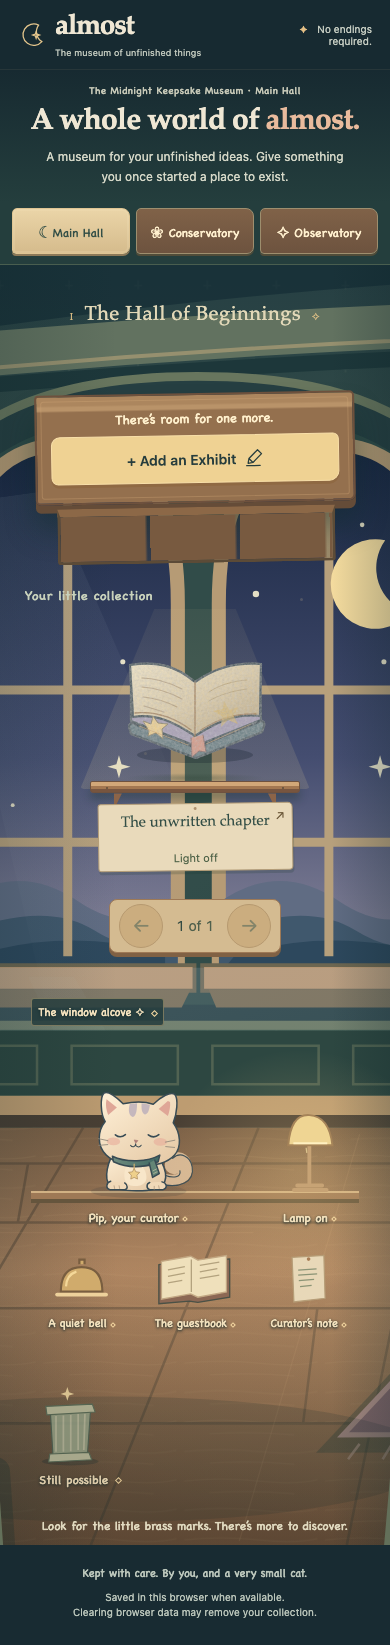
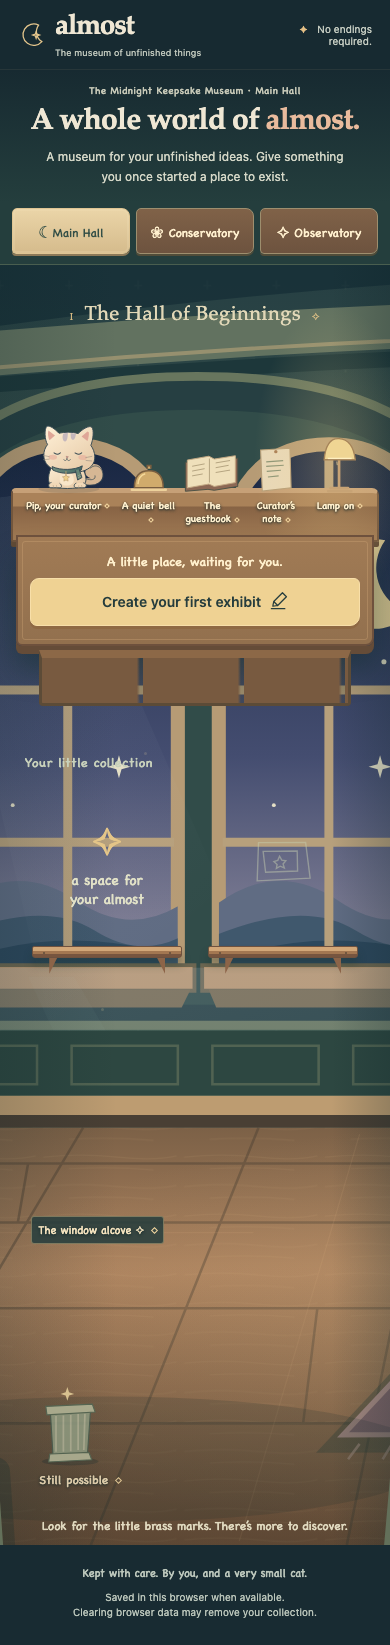
Place the curator and discoveries on one table

Changed region(s): [[0.0308, 0.217, 0.9846, 0.6201], [0.0615, 0.6511, 0.9231, 0.8061]]

diff --git a/devpost/app-map.html b/devpost/app-map.html
@@ -12,7 +12,7 @@
 <details open><summary>The room, Pip and the keepsakes</summary><ul><li><code>src/components/MuseumAtmosphere.tsx</code> — original architectural SVG: high windows, side corridor, perspective floor and near pillars; decorative only.</li><li><code>src/components/MuseumScene.tsx</code> and <code>src/styles/hall.css</code> — continuous hall composition, foreground desk, shelf/plinth positions and responsive behavior. <code>museum.css</code> retains the creation ritual surfaces.</li><li><code>src/components/PipCurator.tsx</code> and <code>src/styles/pip.css</code> — character silhouette and contextual poses; <code>src/hooks/usePipBehavior.ts</code> controls transient event-driven speech and settling, with no storage logic.</li><li><code>src/components/MuseumEnvironment.tsx</code> — window, lamp, silent bell, guestbook, curator note, empty pedestal and Pip stories. Local presentation state only; no storage access.</li><li><code>src/artwork/artifactDefinitions.tsx</code>, <code>src/components/Artifact.tsx</code> and <code>src/styles/artifacts.css</code> — five coherent miniatures and their local motions.</li></ul></details>
 <details><summary>The collection, ritual and keepsake card</summary><ul><li><code>ExhibitGallery.tsx</code> — stable ordering, six desktop positions, mobile scroll and explicit browsing controls.</li><li><code>CreationPanel.tsx</code> — notebook, editable name tag and object tray.</li><li><code>PlacementPreview.tsx</code> — fourth, explicitly unsaved visual stage. Back and Escape keep the stable draft; only final Place saves.</li><li><code>ExhibitPlaque.tsx</code> — exact words, box illustration, explicit light/replay controls and recovery status.</li><li><code>PanelDialog.tsx</code> — accessible naming, Escape and focus return. Keep these while changing the illustration.</li></ul></details>
 <details><summary>Text limits and persistence safety</summary><ul><li><code>src/model/validation.ts</code> — 100/1,000 Unicode code-point limits; validation does not truncate input.</li><li><code>src/model/naming.ts</code> — deterministic suggestion from exact text or a neutral fallback.</li><li><code>src/model/types.ts</code> — versioned records and session draft. A schema change needs deliberate planning; this redesign made none.</li><li><code>tests/storage.test.ts</code>, <code>tests/model.test.ts</code> and <code>tests/e2e/museum.spec.ts</code> — preservation, failure and visible-flow regression evidence.</li></ul></details></section>
-<section><h2>Two rooms further inside</h2><p><code>RoomNavigation.tsx</code> names the three destinations. <code>MuseumScene.tsx</code> owns a temporary room ID and keeps the Main Hall gallery mounted while hidden, so its desktop page and mobile item survive a round trip.</p><p><code>StoryRoom.tsx</code> owns rain, paper petals, seed drawer, telescope, constellation wheel and clockwork comet. <code>StoryRoomAtmosphere.tsx</code> draws the sage glasshouse and plum observatory, with <code>rooms.css</code> handling responsive composition. These optional features never access exhibit/draft storage; leaving resets their UI state. A creation invitation returns to the existing Hall callback and keeps a recovered draft’s stable ID.</p><p class="subtle">The curator stories are explicitly fictional museum lore. They do not interpret visitor input. See <a href="story-rooms-report.md">the room review and screenshots</a>.</p></section><section><h2>A notebook of its own</h2><p><code>MemoryJournal.tsx</code> stays mounted beside the room destination in <code>MuseumScene.tsx</code>. Closing the book or leaving the glasshouse keeps the editor’s exact words in memory. Its native journal dialog reuses <code>PanelDialog.tsx</code> for focus, Escape and restoration. <code>journal.css</code> supplies cream paper, a pressed-fern cover and a mobile page index.</p><p><code>src/model/journal.ts</code> defines journal entries and open drafts independently of exhibits. <code>journalStorage.ts</code> uses <code>almost:journal:entry:&lt;id&gt;</code> and <code>almost:journal:draft</code>. Same-ID retries, raw baselines and read-back checks protect saved pages. First save records the original time and time zone; editing changes only the separate update timestamp. Corruption blocks writes without erasing stored words.</p><p class="subtle">See <a href="journal-report.md">journal verification and screenshots</a>. Screenshot memories and test records are synthetic, never personal visitor content.</p></section><section><h2>One connected museum</h2><p><code>refinements.css</code> supplies the shared interaction marks, focus rings, room-arrival motion and responsive spacing. <code>MuseumScene.tsx</code> connects the focused room heading to its short atmospheric introduction and keeps creation/collection ahead of optional discoveries in reading order. Showing the mounted Hall again restarts its visual arrival without recreating the collection; reduced motion removes it without delaying a control or storage write.</p><p>The journal says “A place for memories that don’t need a pedestal.” Its persistence and dated entry model remain independent and unchanged. See <a href="refinement-report.md">refinement verification and screenshots</a>.</p></section><section><h2>A practice to reuse</h2><p><strong>Make a visual promise testable before you redesign it.</strong> “The reveal never turns on the lasting light” became an explicit PRD criterion, separate App event paths, and a browser test that creates, replays, toggles and reloads. The redesign adds architectural depth, optional room discoveries and an unsaved placement preview while those checks still prove that the light changes only by an explicit action.</p><p>The companion test <code>a failed save skips the placement ceremony and never celebrates durable success</code> connects emotional honesty to observable behavior. Another test compares twelve stored records byte for byte across browsing and reload. Reuse that approach: identify the promise that must survive a redesign, give it a visible criterion, and protect it with an executed regression test.</p><p class="subtle">Executed evidence: 57 unit tests and 90 desktop/mobile browser tests passed, alongside typecheck, lint and production build. See <a href="refinement-report.md">the refinement report</a> for limits and the exact checks. This is evidence about the app, not a statement of learner mastery.</p></section>
+<section><h2>Two rooms further inside</h2><p><code>RoomNavigation.tsx</code> names the three destinations. <code>MuseumScene.tsx</code> owns a temporary room ID and keeps the Main Hall gallery mounted while hidden, so its desktop page and mobile item survive a round trip.</p><p><code>StoryRoom.tsx</code> owns rain, paper petals, seed drawer, telescope, constellation wheel and clockwork comet. <code>StoryRoomAtmosphere.tsx</code> draws the sage glasshouse and plum observatory, with <code>rooms.css</code> handling responsive composition. These optional features never access exhibit/draft storage; leaving resets their UI state. A creation invitation returns to the existing Hall callback and keeps a recovered draft’s stable ID.</p><p class="subtle">The curator stories are explicitly fictional museum lore. They do not interpret visitor input. See <a href="story-rooms-report.md">the room review and screenshots</a>.</p></section><section><h2>A notebook of its own</h2><p><code>MemoryJournal.tsx</code> stays mounted beside the room destination in <code>MuseumScene.tsx</code>. Closing the book or leaving the glasshouse keeps the editor’s exact words in memory. Its native journal dialog reuses <code>PanelDialog.tsx</code> for focus, Escape and restoration. <code>journal.css</code> supplies cream paper, a pressed-fern cover and a mobile page index.</p><p><code>src/model/journal.ts</code> defines journal entries and open drafts independently of exhibits. <code>journalStorage.ts</code> uses <code>almost:journal:entry:&lt;id&gt;</code> and <code>almost:journal:draft</code>. Same-ID retries, raw baselines and read-back checks protect saved pages. First save records the original time and time zone; editing changes only the separate update timestamp. Corruption blocks writes without erasing stored words.</p><p class="subtle">See <a href="journal-report.md">journal verification and screenshots</a>. Screenshot memories and test records are synthetic, never personal visitor content.</p></section><section><h2>One connected museum</h2><p><code>alignment.css</code> and the <code>MuseumEnvironment.tsx</code> desk slot put Pip, the bell, guestbook, curator note and lamp on one tabletop. The existing creation invitation becomes the table’s front panel; MuseumScene still owns its callbacks and placement state. Layout-only changes do not move storage responsibilities into the environment.</p><p><code>refinements.css</code> supplies the shared interaction marks, focus rings, room-arrival motion and responsive spacing. <code>MuseumScene.tsx</code> connects the focused room heading to its short atmospheric introduction and keeps creation/collection ahead of optional discoveries in reading order. Showing the mounted Hall again restarts its visual arrival without recreating the collection; reduced motion removes it without delaying a control or storage write.</p><p>The journal says “A place for memories that don’t need a pedestal.” Its persistence and dated entry model remain independent and unchanged. See <a href="refinement-report.md">refinement verification and screenshots</a>.</p></section><section><h2>A practice to reuse</h2><p><strong>Make a visual promise testable before you redesign it.</strong> “The reveal never turns on the lasting light” became an explicit PRD criterion, separate App event paths, and a browser test that creates, replays, toggles and reloads. The redesign adds architectural depth, optional room discoveries and an unsaved placement preview while those checks still prove that the light changes only by an explicit action.</p><p>The companion test <code>a failed save skips the placement ceremony and never celebrates durable success</code> connects emotional honesty to observable behavior. Another test compares twelve stored records byte for byte across browsing and reload. Reuse that approach: identify the promise that must survive a redesign, give it a visible criterion, and protect it with an executed regression test.</p><p class="subtle">Executed evidence: 57 unit tests and 90 desktop/mobile browser tests passed, alongside typecheck, lint and production build. See <a href="refinement-report.md">the refinement report</a> for limits and the exact checks. This is evidence about the app, not a statement of learner mastery.</p></section>
 <section><h2>Open the museum again</h2><pre><code>npm ci
 npm run dev -- --host 127.0.0.1 --port 5173 --strictPort</code></pre><p>Open <a href="http://127.0.0.1:5173/">http://127.0.0.1:5173/</a>. Reopen this map as <code>devpost/app-map.html</code>; it works offline with scripts disabled. No runtime AI, backend, login, remote font or remote artwork is required.</p><p>Hosting is prepared for Vercel Hobby if eligible, with Render Free Static Site as backup. Nothing was pushed or deployed. Browser storage remains local to the site address; memory-only content may disappear after reload.</p></section>
 <footer>ALMOST · Original local illustration, one small room, and one sleepy keeper. Reference map only; final review and shipping are tracked in <a href="checklist.md">checklist.md</a>.</footer>

diff --git a/src/styles/alignment.css b/src/styles/alignment.css
@@ -1,121 +1,132 @@
-/* A single arrangement keeps the curator, lamp and desk objects in real rows.
-   Labels participate in layout instead of hanging outside their hit targets. */
-.curator-arrangement {
-  --object-row:109px;
-  --curator-gap:24px;
+/* Objects stand on the same tabletop; the creation invitation is its front panel. */
+.curator-table {
   position:absolute;
-  left:7%;
-  bottom:calc(9% + 145px);
-  width:27%;
+  left:6%;
+  bottom:10%;
+  width:31%;
+  z-index:4;
   display:grid;
-  grid-template-columns:repeat(3,minmax(0,1fr));
+}
+.curator-arrangement {
+  --table-art-height:130px;
+  --table-label-height:42px;
+  position:relative;
+  width:100%;
+  display:grid;
+  grid-template-columns:1.7fr repeat(4,minmax(0,1fr));
+  gap:8px;
   align-items:end;
-  gap:24px 16px;
-  z-index:3;
+  padding-inline:10px;
+  isolation:isolate;
 }
 .curator-arrangement::before {
   content:'';
   position:absolute;
-  left:0;
-  right:0;
-  bottom:calc(var(--object-row) + var(--curator-gap) + 32px);
-  height:8px;
-  border-top:2px solid #d1b184;
-  background:#9e7956;
-  box-shadow:0 4px #65553d;
+  top:calc(var(--table-art-height) - 3px);
+  left:-5px;
+  right:-5px;
+  bottom:-7px;
+  border:2px solid #72563d;
+  border-top:5px solid #c6a077;
+  border-radius:5px 7px 2px 2px;
+  background:linear-gradient(#aa8259 0 13px,#876344 14px,#a17b55);
+  box-shadow:0 5px #624b36;
   z-index:-1;
   pointer-events:none;
 }
-@media(min-width:960px) {
-  .window-discovery { top:12%; height:10%; }
-  .window-touch .object-label { top:0; bottom:auto; }
-}
-.museum-hall .curator-arrangement .keeper-corner {
+.museum-hall .curator-table .writing-desk {
   position:relative;
   inset:auto;
   width:100%;
-  grid-column:1 / 3;
-  padding:0;
-}
-.curator-arrangement .pip-greeting { border-radius:20px; }
-.museum-hall .curator-arrangement .pip-curator { width:min(180px,100%); margin:0 auto; }
-.curator-arrangement .pip-greeting > .object-label {
-  position:static;
-  transform:none;
-  width:100%;
   max-width:none;
-  margin:2px 0 0;
-  padding:0;
-  min-height:24px;
-  text-align:center;
-  font-size:12px;
+  min-height:108px;
+  margin:0;
+  padding:16px 18px 20px;
+  transform:none;
+  border-radius:0 0 8px 6px;
+  background:linear-gradient(#a17b55,#92704e);
 }
+.museum-hall .curator-arrangement .keeper-corner,
 .museum-hall .curator-arrangement .desk-lamp {
   position:relative;
   inset:auto;
   width:100%;
-  grid-column:3;
+  padding:0;
 }
-.curator-arrangement .lamp-touch { display:flex; flex-direction:column; align-items:center; }
-.curator-arrangement .lamp-touch svg { width:min(64px,85%); margin:0 auto; }
-.curator-arrangement .lamp-touch .object-label { margin:8px 0 0; min-height:24px; font-size:12px; }
-.museum-hall .curator-arrangement .desk-discoveries {
-  position:relative;
-  inset:auto;
-  width:100%;
-  grid-column:1 / -1;
-  display:grid;
-  grid-template-columns:repeat(3,minmax(0,1fr));
-  align-items:start;
-  gap:16px;
-}
+.museum-hall .curator-arrangement .desk-discoveries { display:contents; }
+.museum-hall .curator-arrangement .pip-greeting,
+.museum-hall .curator-arrangement .lamp-touch,
 .museum-hall .curator-arrangement .desk-discoveries > button {
-  width:100%;
-  margin:0;
   display:grid;
-  grid-template-rows:60px auto;
+  grid-template-rows:var(--table-art-height) var(--table-label-height);
+  gap:0;
   align-items:end;
   justify-items:center;
-  gap:9px;
+  width:100%;
+  min-width:44px;
+  margin:0;
+  padding:0;
+  border-radius:12px 12px 3px 3px;
 }
-.museum-hall .curator-arrangement .desk-discoveries svg { height:60px; max-height:none; width:100%; }
-.museum-hall .curator-arrangement .desk-discoveries .object-label {
+.museum-hall .curator-arrangement .pip-curator { width:min(150px,100%); margin:0 auto; transform:translateY(12px); }
+.museum-hall .curator-arrangement .pip-note { transform:translateY(-12px); width:165px; left:0; }
+.museum-hall .curator-arrangement .lamp-touch svg { width:58px; max-width:100%; height:auto; margin:0 0 -7px; }
+.museum-hall .curator-arrangement .desk-discoveries svg { width:100%; height:58px; max-height:none; margin-bottom:-3px; }
+.museum-hall .curator-arrangement .bell-touch svg { height:48px; margin-bottom:-6px; }
+.museum-hall .curator-arrangement .curator-note svg { height:64px; }
+.museum-hall .curator-arrangement .object-label {
+  position:static;
+  transform:none;
+  align-self:stretch;
+  display:block;
   width:100%;
   max-width:none;
+  min-height:0;
   margin:0;
-  min-height:40px;
-  font-size:12px;
-  line-height:1.6;
+  padding:8px 0 0;
+  font-size:11px;
+  line-height:1.35;
   white-space:normal;
   text-align:center;
+  color:#fff0ce;
+}
+.curator-arrangement .object-label::after { margin-left:4px; width:4px; height:4px; flex:none; }
+@media(min-width:960px) {
+  .window-discovery { top:12%; height:10%; }
+  .window-touch .object-label { top:0; bottom:auto; }
 }
 @media(min-width:1600px) {
   .museum-hall { height:clamp(780px,calc(100svh - 244px),1000px); min-height:780px; }
-  .museum-hall .curator-arrangement .pip-curator { width:200px; }
+  .curator-arrangement { --table-art-height:155px; }
+  .museum-hall .curator-arrangement .pip-curator { width:min(180px,100%); }
+  .museum-hall .curator-arrangement .lamp-touch svg { width:68px; }
+  .museum-hall .curator-arrangement .desk-discoveries svg { height:68px; }
+  .museum-hall .curator-arrangement .bell-touch svg { height:54px; }
 }
 @media(min-width:960px) and (max-width:1199px) {
-  .curator-arrangement { --curator-gap:20px; width:29%; left:6%; gap:20px 12px; }
-  .museum-hall .curator-arrangement .desk-discoveries { gap:12px; }
-  .museum-hall .curator-arrangement .desk-discoveries .object-label { font-size:11px; }
+  .curator-table { left:4%; width:33.5%; }
+  .curator-arrangement { grid-template-columns:1.6fr repeat(4,minmax(0,1fr)); padding-inline:6px; gap:6px; }
 }
 @media(min-width:600px) and (max-width:959px) {
   .museum-hall { height:1240px; min-height:1240px; }
-  .curator-arrangement { left:14%; width:62%; bottom:150px; }
-  .museum-hall .curator-arrangement .pip-curator { width:165px; }
+  .curator-table { top:9%; bottom:auto; left:16%; width:68%; }
+  .museum-hall .collection-stage,.museum-hall .awaiting-beginnings { top:38%; }
+  .window-discovery { top:75%; height:44px; width:30%; left:8%; }
   .empty-pedestal-touch { top:auto; bottom:55px; right:8%; width:9%; }
 }
 @media(max-width:599px) {
   .museum-hall { height:1280px; min-height:1280px; }
-  .museum-hall .collection-stage,.museum-hall .awaiting-beginnings { top:25%; }
-  .curator-arrangement { --object-row:97px; --curator-gap:22px; left:8%; width:84%; bottom:195px; gap:22px 16px; }
-  .museum-hall .curator-arrangement .pip-curator { width:145px; }
-  .museum-hall .curator-arrangement .keeper-corner .pip-note { left:0; width:160px; }
-  .museum-hall .curator-arrangement .desk-discoveries { gap:12px; }
-  .museum-hall .curator-arrangement .desk-discoveries > button { grid-template-rows:52px auto; }
-  .museum-hall .curator-arrangement .desk-discoveries svg { height:52px; }
-  .museum-hall .curator-arrangement .desk-discoveries .object-label { font-size:11px; min-height:36px; }
-  .curator-arrangement .object-label::after { margin-left:4px; width:4px; height:4px; }
-  .window-discovery { top:56%; height:44px; }
+  .curator-table { top:9%; bottom:auto; left:4%; width:92%; }
+  .curator-arrangement { --table-art-height:110px; --table-label-height:44px; grid-template-columns:1.6fr repeat(4,minmax(0,1fr)); gap:6px; padding-inline:6px; }
+  .museum-hall .curator-table .writing-desk { padding:15px 12px 18px; }
+  .museum-hall .curator-arrangement .pip-curator { transform:translateY(8px); }
+  .museum-hall .curator-arrangement .lamp-touch svg { width:45px; }
+  .museum-hall .curator-arrangement .desk-discoveries svg { height:42px; }
+  .museum-hall .curator-arrangement .bell-touch svg { height:36px; }
+  .museum-hall .curator-arrangement .curator-note svg { height:48px; }
+  .museum-hall .curator-arrangement .object-label { font-size:10px; }
+  .museum-hall .collection-stage,.museum-hall .awaiting-beginnings { top:38%; }
+  .window-discovery { top:73%; height:44px; }
   .empty-pedestal-touch { top:auto; bottom:57px; left:10%; width:16%; }
   .environment-whisper { bottom:65px; left:31%; width:61%; }
   .hall-invitation { bottom:12px; }

diff --git a/src/components/MuseumEnvironment.tsx b/src/components/MuseumEnvironment.tsx
@@ -1,4 +1,4 @@
-import { useEffect, useRef, useState } from 'react';
+import { useEffect, useRef, useState, type ReactNode } from 'react';
 import { PanelDialog } from './PanelDialog';
 import { PipCurator, type PipMood } from './PipCurator';
 
@@ -11,7 +11,7 @@ const stories: Record<FoundStory, { title: string; text: string; caption: string
 };
 
 /** Optional room discoveries. This component never reads or writes exhibit/draft storage. */
-export function MuseumEnvironment({ pipMood, pipSpeaking }: { pipMood: PipMood; pipSpeaking: boolean }) {
+export function MuseumEnvironment({ pipMood, pipSpeaking, desk }: { pipMood: PipMood; pipSpeaking: boolean; desk: ReactNode }) {
   const [lampOn, setLampOn] = useState(true);
   const [moment, setMoment] = useState<'window' | 'bell' | null>(null);
   const [story, setStory] = useState<FoundStory | null>(null);
@@ -27,8 +27,14 @@ export function MuseumEnvironment({ pipMood, pipSpeaking }: { pipMood: PipMood; 
       <span className="window-stars" aria-hidden="true"><i>✦</i><i>✧</i><i>✦</i><i>·</i></span>
       <button className="room-object window-touch" onClick={() => discover('window')} aria-label="Look through the twilight window"><span className="object-label">The window alcove</span></button>
     </div>
+    <div className="curator-table">
     <div className="curator-arrangement">
     <div className="keeper-corner"><button className="pip-greeting" aria-label="Ask Pip for a little thought" onClick={() => setStory('pip')}><PipCurator mood={pipMood} showNote={pipSpeaking}/><span className="object-label">Pip, your curator</span></button></div>
+    <div className="desk-discoveries">
+      <button className={`room-object bell-touch ${moment === 'bell' ? 'is-ringing' : ''}`} aria-label="Ring the museum bell" onClick={() => discover('bell')}><svg viewBox="0 0 80 70" aria-hidden="true"><path d="M37 15V9h7v6M12 52q0-33 28-33t28 33Z" fill="#d0ab6c" stroke="#795e40" strokeWidth="3"/><path d="M7 56h66" stroke="#edd19b" strokeWidth="5" strokeLinecap="round"/><path d="M19 45q1-16 14-20" fill="none" stroke="#f4d899" strokeWidth="3"/><g className="bell-ring-marks" fill="none" stroke="#f7d99e" strokeWidth="2"><path d="M5 29 0 23m75 6 5-6M4 40H0m76 0h4"/></g></svg><span className="object-label">A quiet bell</span></button>
+      <button className="room-object guestbook-touch" aria-label="Open the guestbook" onClick={() => setStory('guestbook')}><svg viewBox="0 0 120 80" aria-hidden="true"><path d="m5 18 49-7 12 2 48-4v59l-49 8-13-2L5 78Z" fill="#8c6854" stroke="#4a5146" strokeWidth="2"/><path d="m9 13 45-8 11 6 44-7v56l-44 8-11-5-45 8Z" fill="#efe0bb" stroke="#c2a783" strokeWidth="2"/><path d="M55 10v50m13-41 30-5m-30 15 27-5m-27 15 30-5M19 26l26-5m-26 15 26-5m-26 15 22-4" stroke="#b3a27e" fill="none" strokeWidth="2"/></svg><span className="object-label">The guestbook</span></button>
+      <button className="room-object curator-note" aria-label="Read the curator’s note" onClick={() => setStory('note')}><svg viewBox="0 0 70 85" aria-hidden="true"><path d="m8 7 52-3 2 70-51 6Z" fill="#e8d8b8" stroke="#b69d77" strokeWidth="2"/><circle cx="35" cy="10" r="3" fill="#a97d55"/><path d="m18 28 30-2m-30 10 31-2m-30 11 25-2m-23 12 19-2" stroke="#8b9476" strokeWidth="2"/></svg><span className="object-label">Curator’s note</span></button>
+    </div>
     <div className={`desk-lamp ${lampOn ? 'lamp-on' : ''}`}>
       <div className="desk-lamp-pool" aria-hidden="true"/>
       <button className="room-object lamp-touch" aria-label="Desk lamp" aria-pressed={lampOn} onClick={() => setLampOn(on => !on)}>
@@ -36,11 +42,8 @@ export function MuseumEnvironment({ pipMood, pipSpeaking }: { pipMood: PipMood; 
         <span className="object-label">Lamp {lampOn ? 'on' : 'off'}</span>
       </button>
     </div>
-    <div className="desk-discoveries">
-      <button className={`room-object bell-touch ${moment === 'bell' ? 'is-ringing' : ''}`} aria-label="Ring the museum bell" onClick={() => discover('bell')}><svg viewBox="0 0 80 70" aria-hidden="true"><path d="M37 15V9h7v6M12 52q0-33 28-33t28 33Z" fill="#d0ab6c" stroke="#795e40" strokeWidth="3"/><path d="M7 56h66" stroke="#edd19b" strokeWidth="5" strokeLinecap="round"/><path d="M19 45q1-16 14-20" fill="none" stroke="#f4d899" strokeWidth="3"/><g className="bell-ring-marks" fill="none" stroke="#f7d99e" strokeWidth="2"><path d="M5 29 0 23m75 6 5-6M4 40H0m76 0h4"/></g></svg><span className="object-label">A quiet bell</span></button>
-      <button className="room-object guestbook-touch" aria-label="Open the guestbook" onClick={() => setStory('guestbook')}><svg viewBox="0 0 120 80" aria-hidden="true"><path d="m5 18 49-7 12 2 48-4v59l-49 8-13-2L5 78Z" fill="#8c6854" stroke="#4a5146" strokeWidth="2"/><path d="m9 13 45-8 11 6 44-7v56l-44 8-11-5-45 8Z" fill="#efe0bb" stroke="#c2a783" strokeWidth="2"/><path d="M55 10v50m13-41 30-5m-30 15 27-5m-27 15 30-5M19 26l26-5m-26 15 26-5m-26 15 22-4" stroke="#b3a27e" fill="none" strokeWidth="2"/></svg><span className="object-label">The guestbook</span></button>
-      <button className="room-object curator-note" aria-label="Read the curator’s note" onClick={() => setStory('note')}><svg viewBox="0 0 70 85" aria-hidden="true"><path d="m8 7 52-3 2 70-51 6Z" fill="#e8d8b8" stroke="#b69d77" strokeWidth="2"/><circle cx="35" cy="10" r="3" fill="#a97d55"/><path d="m18 28 30-2m-30 10 31-2m-30 11 25-2m-23 12 19-2" stroke="#8b9476" strokeWidth="2"/></svg><span className="object-label">Curator’s note</span></button>
     </div>
+    {desk}
     </div>
     <button className="room-object empty-pedestal-touch" aria-label="Read the empty pedestal inscription" onClick={() => setStory('pedestal')}><svg viewBox="0 0 110 150" aria-hidden="true"><ellipse cx="55" cy="140" rx="50" ry="7" fill="#10282b" opacity=".3"/><path d="m20 52 71-4-6 85-60 2Z" fill="#8f9b81" stroke="#475d50" strokeWidth="2"/><path d="M30 60v63m13-64v64m13-65v64m13-66v64m12-64-2 64" stroke="#b2b59a" strokeWidth="3"/><path d="m12 43 82-4 5 14-85 5Zm7 84 69-3 5 13-76 4Z" fill="#b4b89a" stroke="#526754" strokeWidth="2"/><path d="m50 9 3 9 9 3-9 3-3 9-3-9-9-3 9-3Z" fill="#e8d29c"/></svg><span className="object-label">Still possible</span></button>
     <div className="environment-whisper" role="status" aria-live="polite">{moment && <span>{moment === 'window' ? 'Somewhere, the night is still full of possibilities.' : 'A little ring, seen rather than heard. Nothing here is late.'}</span>}</div>

diff --git a/tests/e2e/refinements.spec.ts b/tests/e2e/refinements.spec.ts
@@ -37,13 +37,13 @@ test('hall keeps creation and exhibits clear of discoveries and browsing control
       const discoveries=[...document.querySelectorAll('.museum-hall .room-object,.museum-hall .pip-greeting')].map(element=>element.getBoundingClientRect());
       const controls=[...document.querySelectorAll('.museum-hall .desktop-browse,.museum-hall .mobile-browse')].filter(visible).map(element=>element.getBoundingClientRect());
       const desk=rect('.writing-desk');
-      return {overflow:document.documentElement.scrollWidth>innerWidth,deskCollisions:discoveries.filter(item=>overlap(item,desk)).length,discoveryCollisions:discoveries.filter((item,index)=>discoveries.slice(index+1).some(other=>overlap(item,other))).length,discoveryControlCollisions:discoveries.filter(item=>controls.some(control=>overlap(item,control))).length,controlsClipped:controls.some(control=>control.bottom>rect('.museum-hall').bottom),tagControlCollisions:tags.filter(tag=>controls.some(control=>overlap(tag,control))).length,mobileCoreFirst:innerWidth>=600||discoveries.every(item=>item.top>rect('.collection-stage').top&&item.top>desk.bottom)};
+      return {overflow:document.documentElement.scrollWidth>innerWidth,deskCollisions:discoveries.filter(item=>overlap(item,desk)).length,discoveryCollisions:discoveries.filter((item,index)=>discoveries.slice(index+1).some(other=>overlap(item,other))).length,discoveryControlCollisions:discoveries.filter(item=>controls.some(control=>overlap(item,control))).length,controlsClipped:controls.some(control=>control.bottom>rect('.museum-hall').bottom),tagControlCollisions:tags.filter(tag=>controls.some(control=>overlap(tag,control))).length,mobileDeskFirst:innerWidth>=960||desk.bottom<rect('.collection-stage').top};
     });
-    expect(geometry,`Hall at ${viewport.width}×${viewport.height}`).toEqual({overflow:false,deskCollisions:0,discoveryCollisions:0,discoveryControlCollisions:0,controlsClipped:false,tagControlCollisions:0,mobileCoreFirst:true});
+    expect(geometry,`Hall at ${viewport.width}×${viewport.height}`).toEqual({overflow:false,deskCollisions:0,discoveryCollisions:0,discoveryControlCollisions:0,controlsClipped:false,tagControlCollisions:0,mobileDeskFirst:true});
   }
 });
 
-test('curator objects share aligned label rows without covering each other or the creation desk',async({page})=>{
+test('curator objects stand on one table with aligned labels and a clear creation panel',async({page})=>{
   await page.emulateMedia({reducedMotion:'reduce'});
   await page.goto('/');
   for(const viewport of [{width:320,height:700},{width:390,height:844},{width:600,height:900},{width:768,height:1024},{width:960,height:768},{width:1440,height:900},{width:1920,height:900},{width:1920,height:1080}]) {
@@ -59,10 +59,11 @@ test('curator objects share aligned label rows without covering each other or th
         contained:labels.every((label,index)=>{const button=buttons[index].getBoundingClientRect();return label.left>=button.left-1&&label.right<=button.right+1&&label.top>=button.top-1&&label.bottom<=button.bottom+1;}),
         collisions:labels.filter((label,index)=>labels.some((other,j)=>index!==j&&overlap(label,other))||drawings.some((drawing,j)=>index!==j&&overlap(label,drawing))||overlap(label,desk)).length,
         aligned:Math.max(...tools)-Math.min(...tools)<1,
-        deskGap:innerWidth<960||desk.top-group.getBoundingClientRect().bottom>=16,
+        tableJoined:document.querySelector('.writing-desk')!.closest('.curator-table')===group.closest('.curator-table')&&Math.abs(desk.top-group.getBoundingClientRect().bottom)<1,
+        onSurface:drawings.every(drawing=>Math.abs(drawing.bottom-(group.getBoundingClientRect().top+Number.parseFloat(getComputedStyle(group).getPropertyValue('--table-art-height'))))<=18),
       };
     });
-    expect(geometry,`Curator corner at ${viewport.width}×${viewport.height}`).toEqual({contained:true,collisions:0,aligned:true,deskGap:true});
+    expect(geometry,`Curator corner at ${viewport.width}×${viewport.height}`).toEqual({contained:true,collisions:0,aligned:true,tableJoined:true,onSurface:true});
   }
 });
 

diff --git a/src/components/MuseumScene.tsx b/src/components/MuseumScene.tsx
@@ -27,9 +27,8 @@ export function MuseumScene({ children, count, hasDraft, onCreate, placing = fal
       <div className="hall-heading" aria-hidden="true"><span>I</span> The Hall of Beginnings <span>✧</span></div>
       <div className="moonlight-layer" aria-hidden="true"/>
       <div className="room-motes" aria-hidden="true"><i/><i/><i/></div>
-      <div className={`writing-desk ${placing ? 'placement-ceremony' : ''}`} role={placing ? 'status' : undefined}><span className="desk-note">{placing ? 'A little place, just for this.' : hasDraft ? 'Your notebook is still open.' : count ? 'There’s room for one more.' : 'A little place, waiting for you.'}</span>{placing ? <button className="primary-button" onClick={onSkipReveal}>Open its keepsake card <span aria-hidden="true">✧</span></button> : <button className="primary-button museum-create" onClick={onCreate}><span>{hasDraft ? 'Continue where you left off' : count ? '+ Add an Exhibit' : 'Create your first exhibit'}</span><svg viewBox="0 0 24 24" aria-hidden="true"><path d="m5 17 1-5L17 1l5 5-11 11-6 1Zm1-5 5 5M3 21h17"/></svg></button>}</div>
+      <MuseumEnvironment pipMood={pipMood} pipSpeaking={pipSpeaking} desk={<div className={`writing-desk ${placing ? 'placement-ceremony' : ''}`} role={placing ? 'status' : undefined}><span className="desk-note">{placing ? 'A little place, just for this.' : hasDraft ? 'Your notebook is still open.' : count ? 'There’s room for one more.' : 'A little place, waiting for you.'}</span>{placing ? <button className="primary-button" onClick={onSkipReveal}>Open its keepsake card <span aria-hidden="true">✧</span></button> : <button className="primary-button museum-create" onClick={onCreate}><span>{hasDraft ? 'Continue where you left off' : count ? '+ Add an Exhibit' : 'Create your first exhibit'}</span><svg viewBox="0 0 24 24" aria-hidden="true"><path d="m5 17 1-5L17 1l5 5-11 11-6 1Zm1-5 5 5M3 21h17"/></svg></button>}</div>}/>
       {children}
-      <MuseumEnvironment pipMood={pipMood} pipSpeaking={pipSpeaking}/>
       <div className="foreground-balustrade" aria-hidden="true"><i/><i/></div>
       <p className="hall-invitation">Look for the little brass marks. There’s more to discover.</p>
     </div>

diff --git a/devpost/alignment-report.md b/devpost/alignment-report.md
@@ -1,16 +1,16 @@
-# Curator-corner alignment
+# Curator-table alignment
 
-October 26, 2026. Corrects the learner’s screenshot of the Main Hall corner.
+October 26, 2026. Implements the learner’s clarification: the bell, Pip, note and lamp belong **on the table**.
 
-Pip and the lamp now occupy a common row and little wooden ledge. Bell, guestbook and curator note use three equal columns with consistent illustration heights, label baselines and comfortable gaps above the creation desk. Labels remain inside their button bounds, so the guestbook cannot cover Pip’s name. The window invitation has its own clear position. Phone/tablet layouts keep the same rows after the exhibit collection, with room for the empty pedestal and feedback.
+All five discoveries, including the guestbook, now stand on one common wooden tabletop. Their labels sit on the table’s apron, and the existing creation invitation occupies its front panel. This replaces the earlier separate shelf/row arrangement. Responsive column widths keep names inside their controls at 320px and the narrow desktop breakpoint.
 
-`MuseumEnvironment.tsx` adds a layout-only wrapper. `alignment.css` supplies the responsive grid. All handlers, labels, modal/focus behavior, storage and exhibit creation are retained. Existing uncommitted changes to `refinements.css` and the decorative window-label star are preserved.
+`MuseumScene.tsx` passes its unchanged creation/placement panel into `MuseumEnvironment.tsx` through a desk slot. A shared `curator-table` wrapper and `alignment.css` tie the objects and desk together. Existing handlers, modal/focus behavior, reveal/light state and persistence are retained. The pre-existing uncommitted `refinements.css` changes and decorative window-label star remain untouched.
 
-Executed: typecheck, lint and production build passed; **12 focused desktop/mobile browser checks passed**. A new label-alignment regression checks eight viewports from 320px to 1920px: labels are contained by controls, do not cover other drawings/labels or the desk, and the three desk labels align. Existing discovery interactions, keyboard focus/dismissal, reduced motion and unchanged storage bytes also passed. The entire browser suite was not rerun for this focused correction.
+Executed: typecheck, lint and production build passed. **20 focused desktop/mobile browser checks passed** across layout, object interactions, exact storage preservation, creation/reload/lights, failed-save ceremony behavior and keyboard skipping. The table regression checks eight viewports from 320px to 1920px: shared table containment, object baselines at the tabletop, aligned labels, no label collisions and a clear creation panel. The entire browser suite was not rerun for this focused correction.
 
-Inspected desktop, wide desktop, tablet, phone and 320px layouts. Screenshots contain only synthetic fixture data.
+Inspected desktop, wide desktop, tablet, phone and 320px layouts. Screenshots show isolated empty museums, without personal content.
 
-- [Aligned desktop corner](screenshots/alignment/desktop-corner.png)
+- [Shared tabletop](screenshots/alignment/desktop-corner.png)
 - [Phone museum](screenshots/alignment/mobile-hall.png)
 
-No new dependencies, backend, deployment or persistence changes. Final learner creative review remains open.
+No dependencies, services or storage changes. Final learner creative review remains open.

diff --git a/devpost/checklist.md b/devpost/checklist.md
@@ -77,6 +77,8 @@ Activity mode: Fast execution with creative feedback and final focused wrap-up.
 
 ## Revisions
 
+- Learner clarifies that Pip, the bell, note and lamp should stand on the table. Replaced the separate shelf rows with one tabletop containing all five discoveries, including the guestbook, and placed the existing creation invitation in its front panel. All handlers/storage behavior remain intact. The focused tabletop/core-flow regression set passes; see `alignment-report.md`.
+
 - Learner supplies a screenshot of crowded curator labels and asks for proper alignment. Grouped Pip/lamp and desk discoveries into a shared responsive grid with labels inside each button, common illustration/label rows and a small shared ledge. `alignment-report.md` records focused checks and screenshots. Existing uncommitted room-style adjustments were preserved rather than replaced.
 
 - Learner authorizes a presentation-only cohesion pass across the three rooms. Rebalanced Hall spacing and mobile reading/tab order, retained all room discoveries, added CSS arrivals/short described introductions and clarified the optional journal. Storage/model/core-event code and dependencies are unchanged. `refinement-report.md` records executed checks and screenshot review; final learner acceptance remains open.
